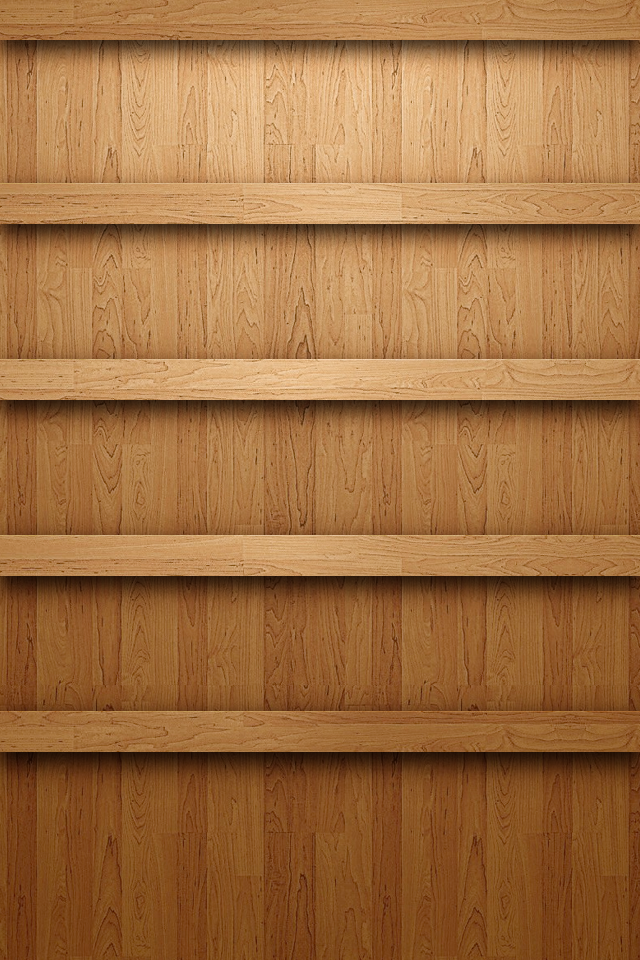
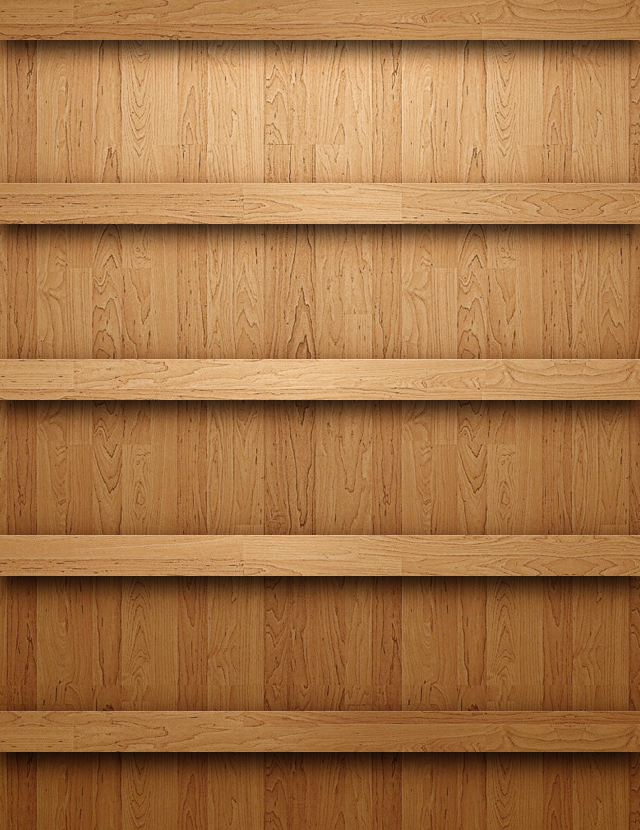
pagination added to bookcases

diff --git a/app/assets/stylesheets/scaffolds.css.scss b/app/assets/stylesheets/scaffolds.css.scss
@@ -163,7 +163,7 @@ a {
 .bookcase {
   background-image: url("/assets/bookcase1.png");
   width: 640px;
-  height: 926px;
+  height: 796px;
   padding-top: 34px;
   border: 1px solid #7E3517;
 }

diff --git a/app/controllers/bookcases_controller.rb b/app/controllers/bookcases_controller.rb
@@ -24,7 +24,8 @@ class BookcasesController < ApplicationController
   end
 
   def show 
-    @bookcase = Bookcase.find(params[:id])  
+    @bookcase = Bookcase.find(params[:id])
+    @books = @bookcase.books.paginate(page: params[:page], per_page: 24)
   end
 
   def add_book
